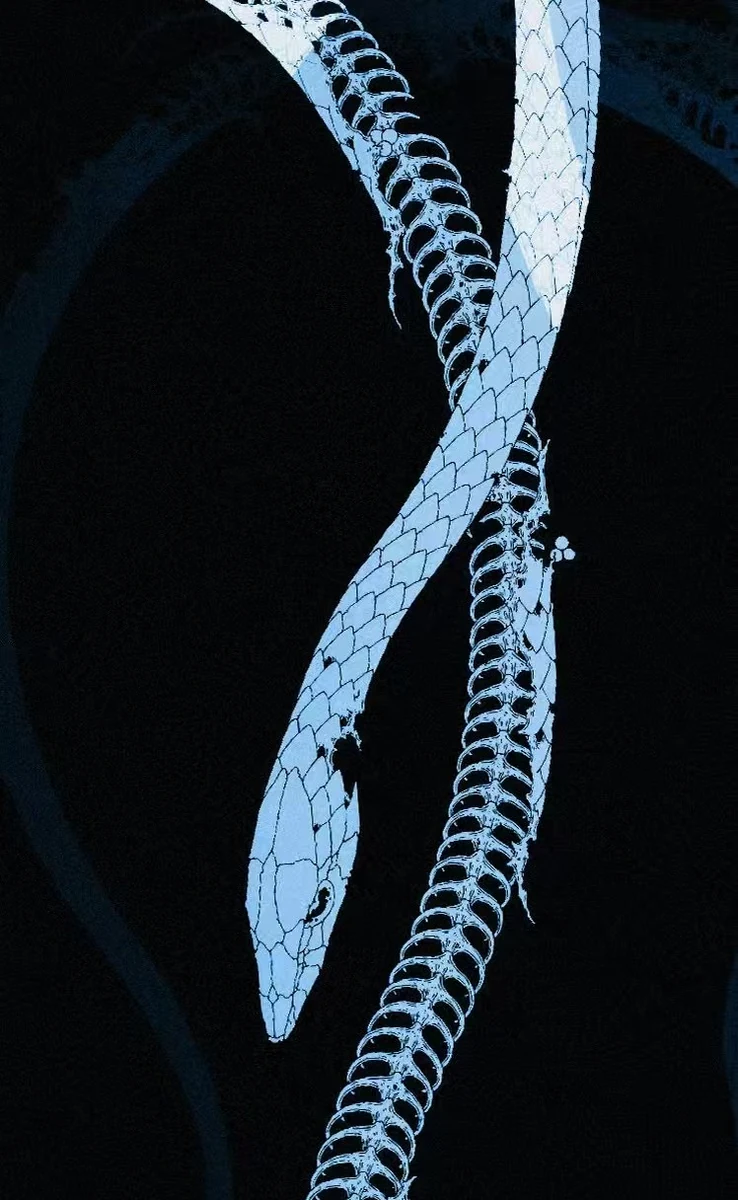
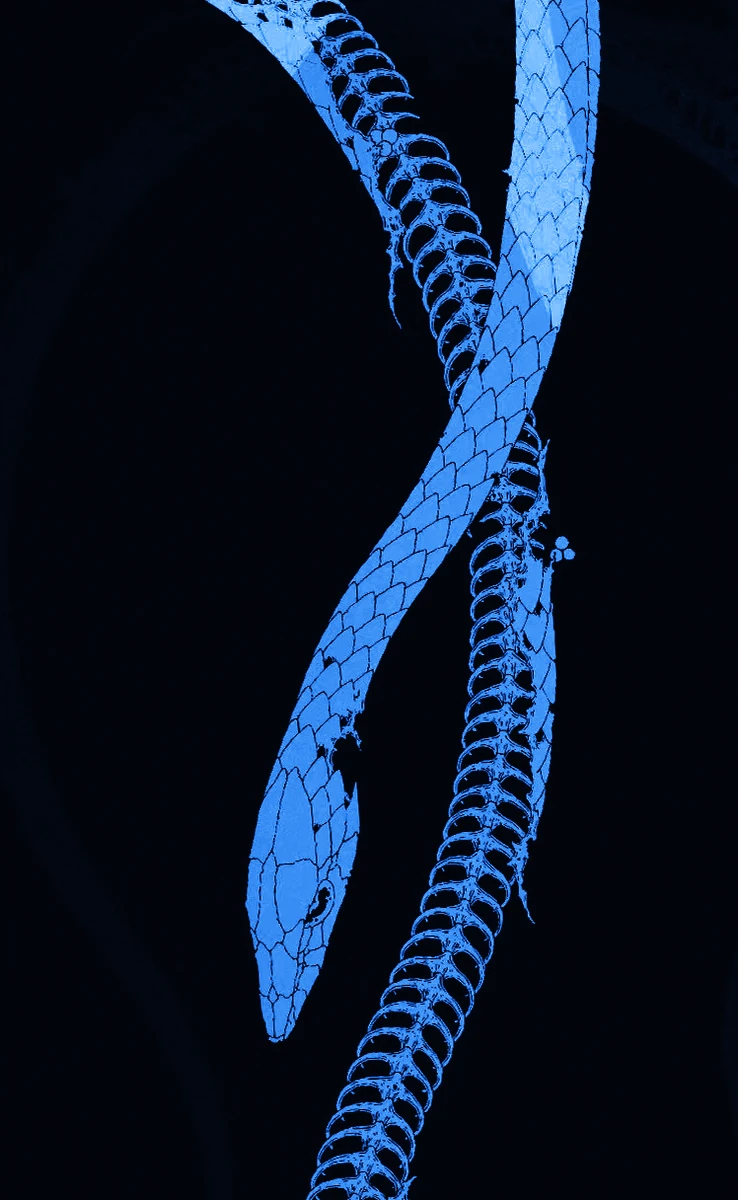
feat: 电光蓝黑配色 + 图片双色调 + 卡片内屏幕混合插图（参考 coco-xulian）

Changed region(s): [[0.2805, 0.0, 0.9038, 1.0], [0.9038, 0.0617, 1.0, 0.1542]]

diff --git a/index.html b/index.html
@@ -17,13 +17,13 @@
 <link href="https://fonts.googleapis.com/css2?family=Cinzel:wght@400;500;600&family=Cormorant+Garamond:ital,wght@0,400;0,500;1,400;1,500&family=Noto+Serif+SC:wght@200;300;400;500;600&display=swap" rel="stylesheet">
 <style>
 :root{
-  --bg:#05080d;
+  --bg:#03060c;
   --ink:#e9f1fa;
-  --ink2:#c3d5e8;
-  --muted:#8ba1b9;
-  --ice:#a9cbea;
-  --line:rgba(190,216,240,.17);
-  --line-soft:rgba(190,216,240,.09);
+  --ink2:#aecbe8;
+  --muted:#6e8aa8;
+  --ice:#2e8bff;
+  --line:rgba(58,146,255,.24);
+  --line-soft:rgba(58,146,255,.12);
   --display:'Cinzel',serif;
   --serif:'Cormorant Garamond',serif;
   --cn:'Noto Serif SC','Songti SC','STSong','SimSun',serif;
@@ -40,11 +40,11 @@ body{
 a{color:inherit;text-decoration:none}
 
 /* ================= 背景图层 ================= */
-.bgstack{position:fixed;inset:0;z-index:0;overflow:hidden;background:#04070b}
+.bgstack{position:fixed;inset:0;z-index:0;overflow:hidden;background:#02040a}
 .bg{
   position:absolute;inset:-4%;background-size:cover;background-position:center 42%;
   opacity:0;transition:opacity 1.3s ease;
-  filter:brightness(.60) saturate(.80) contrast(1.06);
+  filter:brightness(.46) saturate(1.15) contrast(1.08);
   transform:translate3d(calc(var(--mx,0)*6px),calc(var(--my,0)*6px),0) scale(1.05);
   will-change:opacity,transform;
 }
@@ -54,10 +54,10 @@ a{color:inherit;text-decoration:none}
 .veil{
   position:fixed;inset:0;z-index:1;pointer-events:none;
   background:
-    linear-gradient(90deg,rgba(5,8,13,.94) 0%,rgba(5,8,13,.86) 34%,rgba(5,8,13,.42) 62%,rgba(5,8,13,.60) 100%),
-    radial-gradient(120% 90% at 8% 12%,rgba(64,116,170,.20),transparent 58%),
-    radial-gradient(110% 80% at 92% 100%,rgba(10,26,44,.75),transparent 62%),
-    linear-gradient(180deg,rgba(4,6,10,.72) 0%,transparent 28%,transparent 66%,rgba(4,6,10,.88) 100%);
+    linear-gradient(90deg,rgba(3,5,11,.95) 0%,rgba(3,5,11,.88) 34%,rgba(3,5,11,.46) 62%,rgba(3,5,11,.64) 100%),
+    radial-gradient(120% 90% at 8% 12%,rgba(46,139,255,.16),transparent 58%),
+    radial-gradient(110% 80% at 92% 100%,rgba(3,9,22,.80),transparent 62%),
+    linear-gradient(180deg,rgba(2,4,9,.75) 0%,transparent 28%,transparent 66%,rgba(2,4,9,.90) 100%);
 }
 .grain{
   position:fixed;inset:0;z-index:2;pointer-events:none;opacity:.055;mix-blend-mode:overlay;
@@ -66,8 +66,8 @@ a{color:inherit;text-decoration:none}
 #dust{position:fixed;inset:0;z-index:2;pointer-events:none;opacity:.55}
 
 /* ================= 外框 ================= */
-.frame{position:fixed;inset:16px;z-index:8;pointer-events:none;border:1px solid rgba(190,216,240,.34)}
-.frame::after{content:'';position:absolute;inset:5px;border:1px solid rgba(190,216,240,.11)}
+.frame{position:fixed;inset:16px;z-index:8;pointer-events:none;border:1px solid rgba(58,146,255,.34)}
+.frame::after{content:'';position:absolute;inset:5px;border:1px solid rgba(58,146,255,.11)}
 
 /* ================= 布局 ================= */
 .app{position:relative;z-index:4;display:grid;grid-template-columns:minmax(340px,37%) 1fr;min-height:100vh}
@@ -91,21 +91,21 @@ a{color:inherit;text-decoration:none}
   position:relative;width:clamp(236px,36vh,372px);height:clamp(236px,36vh,372px);
   border-radius:50%;cursor:grab;touch-action:none;user-select:none;-webkit-user-select:none;
   background:radial-gradient(circle at 50% 40%,rgba(23,38,56,.62) 0%,rgba(5,9,14,.86) 68%);
-  box-shadow:0 0 0 1px rgba(190,216,240,.16),0 30px 70px rgba(0,0,0,.7),
+  box-shadow:0 0 0 1px rgba(58,146,255,.16),0 30px 70px rgba(0,0,0,.7),
              inset 0 0 44px rgba(0,0,0,.7),0 0 90px rgba(74,128,186,.12);
 }
 .clock:active{cursor:grabbing}
 .clock::before{
   content:'';position:absolute;inset:-11px;border-radius:50%;pointer-events:none;opacity:.55;
-  background:conic-gradient(from 200deg,rgba(190,216,240,.5),rgba(190,216,240,.03),rgba(190,216,240,.36),
-    rgba(190,216,240,.02),rgba(190,216,240,.44),rgba(190,216,240,.03),rgba(190,216,240,.34),rgba(190,216,240,.5));
+  background:conic-gradient(from 200deg,rgba(58,146,255,.5),rgba(58,146,255,.03),rgba(58,146,255,.36),
+    rgba(58,146,255,.02),rgba(58,146,255,.44),rgba(58,146,255,.03),rgba(58,146,255,.34),rgba(58,146,255,.5));
   mask:radial-gradient(circle,transparent 96.5%,#000 97%);
   -webkit-mask:radial-gradient(circle,transparent 96.5%,#000 97%);
 }
 .clock svg{position:relative;display:block;width:100%;height:100%;color:var(--ink);overflow:visible}
 .ring{fill:none;stroke:rgba(233,241,250,.55);stroke-width:1}
 .ring2{fill:none;stroke:rgba(233,241,250,.22);stroke-width:.7}
-.ring3{fill:none;stroke:rgba(169,203,234,.16);stroke-width:.7;stroke-dasharray:1.4 5;
+.ring3{fill:none;stroke:rgba(46,139,255,.16);stroke-width:.7;stroke-dasharray:1.4 5;
   transform-box:view-box;transform-origin:50% 50%;animation:spin 120s linear infinite}
 @keyframes spin{to{transform:rotate(360deg)}}
 .tk{stroke:rgba(233,241,250,.34);stroke-width:.7}
@@ -124,7 +124,7 @@ a{color:inherit;text-decoration:none}
 .dm{fill:var(--ice);opacity:.55}
 #hand{stroke:url(#handGrad);stroke-width:1.8;stroke-linecap:round;transition:none}
 .ctr{fill:var(--ice)}
-.ctr2{fill:none;stroke:rgba(169,203,234,.5);stroke-width:.8}
+.ctr2{fill:none;stroke:rgba(46,139,255,.5);stroke-width:.8}
 .ptr{fill:var(--ice);opacity:.9}
 
 .readout{text-align:center;margin-top:clamp(16px,2.6vh,26px)}
@@ -150,25 +150,46 @@ a{color:inherit;text-decoration:none}
 .panel.on{display:block}
 .card{position:relative;
   padding:clamp(30px,3.6vw,46px) clamp(22px,3.2vw,42px);
-  border:1px solid rgba(190,216,240,.20);
+  border:1px solid rgba(58,146,255,.20);
   background:linear-gradient(158deg,rgba(11,20,30,.74),rgba(4,8,13,.52) 62%,rgba(6,12,19,.62));
   backdrop-filter:blur(15px) saturate(1.12);
   -webkit-backdrop-filter:blur(15px) saturate(1.12);
   box-shadow:0 34px 90px rgba(0,0,0,.62),inset 0 1px 0 rgba(214,234,252,.07)}
-.card::before{content:'';position:absolute;inset:7px;border:1px solid rgba(190,216,240,.075);pointer-events:none}
+.card::before{content:'';position:absolute;inset:7px;border:1px solid rgba(58,146,255,.075);pointer-events:none}
 .card::after{content:attr(data-rn);position:absolute;right:16px;bottom:2px;z-index:0;
   font-family:var(--display);font-size:124px;line-height:.9;letter-spacing:.02em;
-  color:rgba(190,216,240,.065);pointer-events:none;user-select:none;
+  color:rgba(58,146,255,.065);pointer-events:none;user-select:none;
   text-shadow:0 0 40px rgba(120,175,225,.10)}
 .panel.on .card{animation:cardIn .9s var(--ease) both}
 @keyframes cardIn{from{opacity:0;transform:translateY(22px);filter:blur(7px)}to{opacity:1;transform:none;filter:blur(0)}}
 .card>*{position:relative;z-index:1;animation:riseIn .95s var(--ease) both;animation-delay:calc(.06s + var(--d,0)*1ms)}
+
+/* ===== 卡片内插图：屏幕混合，图片黑底自然融进暗卡片 ===== */
+.card{overflow:hidden}
+.card>.art{position:absolute;z-index:0;animation:none;pointer-events:none;
+  mix-blend-mode:screen;background-repeat:no-repeat;
+  -webkit-mask-image:radial-gradient(128% 128% at 62% 48%,#000 44%,transparent 86%);
+  mask-image:radial-gradient(128% 128% at 62% 48%,#000 44%,transparent 86%);
+  filter:saturate(1.2) brightness(1.06)}
+.art.r{right:-12%;top:50%;transform:translateY(-50%);width:50%;height:106%;
+  background-size:contain;background-position:right center;opacity:.52}
+.art.b{left:-6%;right:-6%;bottom:-15%;height:58%;
+  background-size:contain;background-position:center bottom;opacity:.46}
+.art.faint{opacity:.3}
+
+/* 窄屏：插图挪到右下、压暗，保证正文可读 */
+@media (max-width:900px){
+  .art.r{right:-18%;top:auto;bottom:-10%;transform:none;width:74%;height:58%;
+    opacity:.24;background-position:right bottom}
+  .art.b{opacity:.24;height:44%}
+  .art.faint{opacity:.2}
+}
 @keyframes riseIn{from{opacity:0;transform:translateY(16px)}to{opacity:1;transform:none}}
 
 .eyebrow{display:flex;align-items:center;gap:13px;font-family:var(--display);
   font-size:11px;letter-spacing:.34em;color:var(--ice);text-transform:uppercase}
 .eyebrow .gnum{display:inline-grid;place-items:center;width:27px;height:27px;flex:none;
-  border:1px solid rgba(169,203,234,.55);font-size:12px;letter-spacing:0;color:#dfeeff}
+  border:1px solid rgba(46,139,255,.55);font-size:12px;letter-spacing:0;color:#dfeeff}
 .eyebrow::after{content:'';flex:1;height:1px;background:linear-gradient(90deg,var(--line),transparent)}
 
 h2{font-family:var(--cn);font-weight:300;font-size:clamp(30px,4.1vw,52px);line-height:1.5;
@@ -176,8 +197,9 @@ h2{font-family:var(--cn);font-weight:300;font-size:clamp(30px,4.1vw,52px);line-h
   text-shadow:0 2px 34px rgba(2,5,9,.92),0 0 3px rgba(2,5,9,.55)}
 h2 em{font-style:normal;position:relative;color:#fff}
 h2 em::after{content:'';position:absolute;left:0;right:0;bottom:.06em;height:1px;
-  background:linear-gradient(90deg,var(--ice),rgba(169,203,234,.15))}
-.hero{font-size:clamp(26px,3.5vw,44px);line-height:1.85;letter-spacing:.04em}
+  background:linear-gradient(90deg,var(--ice),rgba(46,139,255,.15))}
+.hero{font-size:clamp(26px,3.5vw,44px);line-height:1.85;letter-spacing:.04em;
+  text-shadow:0 2px 22px rgba(2,4,9,.9),0 0 46px rgba(2,4,9,.6)}
 .hero .line{display:block;overflow:hidden}
 .hero .line i{display:block;font-style:normal;transform:translateY(115%);
   animation:lineUp 1.1s var(--ease) forwards}
@@ -211,9 +233,9 @@ h2 em::after{content:'';position:absolute;left:0;right:0;bottom:.06em;height:1px
 .srow .sh .e{font-family:var(--display);font-size:9.5px;letter-spacing:.3em;color:var(--muted)}
 .chips{display:flex;flex-wrap:wrap;gap:9px;margin-top:14px}
 .chip{font-size:13px;letter-spacing:.2em;padding:7px 15px;color:#dcebf9;
-  border:1px solid rgba(169,203,234,.28);background:rgba(20,38,58,.35);
+  border:1px solid rgba(46,139,255,.28);background:rgba(20,38,58,.35);
   backdrop-filter:blur(3px);transition:.45s var(--ease)}
-.chip:hover{background:rgba(169,203,234,.16);border-color:rgba(190,216,240,.6);color:#fff}
+.chip:hover{background:rgba(46,139,255,.16);border-color:rgba(58,146,255,.6);color:#fff}
 
 /* 禁忌 */
 .notice{margin-top:clamp(22px,3.4vh,36px);padding:22px 24px;border:1px solid var(--line);
@@ -247,8 +269,8 @@ h2 em::after{content:'';position:absolute;left:0;right:0;bottom:.06em;height:1px
 /* 文档链接 */
 .doc-link{display:inline-flex;align-items:center;gap:8px;margin-top:clamp(20px,3vh,30px);
   font-family:var(--display);font-size:11px;letter-spacing:.24em;padding:11px 20px;
-  border:1px solid rgba(190,216,240,.42);color:#eaf4ff;transition:.45s var(--ease)}
-.doc-link:hover{background:rgba(190,216,240,.92);color:#05080d;border-color:transparent}
+  border:1px solid rgba(58,146,255,.42);color:#eaf4ff;transition:.45s var(--ease)}
+.doc-link:hover{background:rgba(58,146,255,.92);color:#05080d;border-color:transparent}
 .doc-link .ar{font-size:12px;letter-spacing:0}
 
 /* 她的字 · 文档簇 */
@@ -257,16 +279,16 @@ h2 em::after{content:'';position:absolute;left:0;right:0;bottom:.06em;height:1px
 .writings .wt{font-family:var(--display);font-size:9.5px;letter-spacing:.3em;
   color:var(--muted);margin-bottom:13px}
 .wlink{display:flex;align-items:center;gap:14px;padding:12px 15px;margin-bottom:9px;
-  border:1px solid rgba(190,216,240,.20);text-decoration:none;
+  border:1px solid rgba(58,146,255,.20);text-decoration:none;
   background:linear-gradient(120deg,rgba(11,20,30,.5),rgba(6,11,17,.28));
   color:#e7f1fb;transition:.45s var(--ease)}
 .wlink:last-child{margin-bottom:0}
-.wlink:hover{border-color:rgba(190,216,240,.6);
+.wlink:hover{border-color:rgba(58,146,255,.6);
   background:linear-gradient(120deg,rgba(20,36,52,.72),rgba(10,18,28,.5));transform:translateX(4px)}
 .wlink .wk{font-family:var(--display);font-size:10px;letter-spacing:.22em;
   color:#bcd8f2;min-width:40px;opacity:.85}
 .wlink .wt2{flex:1;font-size:13.5px;letter-spacing:.1em;color:#eef6ff;font-weight:300}
-.wlink .ar{font-size:13px;color:rgba(190,216,240,.55);transition:.45s var(--ease)}
+.wlink .ar{font-size:13px;color:rgba(58,146,255,.55);transition:.45s var(--ease)}
 .wlink:hover .ar{color:#fff;transform:translate(2px,-2px)}
 
 /* 矮屏（如 720p 笔记本）：压缩幸识页，避免卡片超出视口被裁切 */
@@ -280,14 +302,14 @@ h2 em::after{content:'';position:absolute;left:0;right:0;bottom:.06em;height:1px
 
 /* 图版编号 */
 .plate{position:fixed;left:34px;bottom:32px;z-index:7;font-family:var(--display);font-size:9px;
-  letter-spacing:.3em;color:rgba(190,216,240,.42);text-transform:uppercase;pointer-events:none}
+  letter-spacing:.3em;color:rgba(58,146,255,.42);text-transform:uppercase;pointer-events:none}
 .plate b{color:rgba(200,226,250,.72);font-weight:500}
 
 /* 右侧索引 */
 .rail{position:fixed;right:30px;top:50%;transform:translateY(-50%);z-index:7;
   display:flex;flex-direction:column;gap:16px;align-items:flex-end}
 .rail button{display:flex;align-items:center;gap:9px;background:none;border:0;cursor:pointer;
-  font-family:var(--display);font-size:9.5px;letter-spacing:.18em;color:rgba(190,216,240,.34);
+  font-family:var(--display);font-size:9.5px;letter-spacing:.18em;color:rgba(58,146,255,.34);
   transition:.4s var(--ease);padding:2px 0;text-shadow:0 1px 10px rgba(0,0,0,.95)}
 .rail button .ln{display:block;width:14px;height:1px;background:currentColor;transition:.4s}
 .rail button:hover{color:#dbeaf9}
@@ -296,7 +318,7 @@ h2 em::after{content:'';position:absolute;left:0;right:0;bottom:.06em;height:1px
 
 /* 页脚 */
 .foot{position:fixed;right:clamp(28px,7vw,110px);bottom:30px;z-index:7;text-align:right;
-  pointer-events:none;font-size:10.5px;letter-spacing:.22em;color:rgba(190,216,240,.4)}
+  pointer-events:none;font-size:10.5px;letter-spacing:.22em;color:rgba(58,146,255,.4)}
 .foot b{color:rgba(226,240,253,.7);font-weight:400}
 
 /* 手机端页脚（常规位置） */
@@ -325,7 +347,7 @@ h2 em::after{content:'';position:absolute;left:0;right:0;bottom:.06em;height:1px
   .foot,.plate{display:none}
   .m-foot{display:block;margin-top:48px;padding-top:18px;border-top:1px solid var(--line-soft);
     text-align:center;font-family:var(--display);font-size:9px;letter-spacing:.28em;
-    color:rgba(190,216,240,.4);line-height:2.6}
+    color:rgba(58,146,255,.4);line-height:2.6}
   .m-foot b{color:rgba(226,240,253,.7);font-weight:400;letter-spacing:.18em}
   .frame{inset:9px}
 }
@@ -406,6 +428,7 @@ h2 em::after{content:'';position:absolute;left:0;right:0;bottom:.06em;height:1px
       <!-- XII 入口 -->
       <section class="panel on" data-i="0">
         <div class="card" data-rn="XII">
+          <div class="art r" style="background-image:url(assets/p3.webp)" aria-hidden="true"></div>
           <div class="eyebrow" style="--d:0"><span class="gnum">Ω</span>入口 · GATE</div>
           <h2 class="hero">
             <span class="line"><i>能轻易失去的东西</i></span>
@@ -437,6 +460,7 @@ h2 em::after{content:'';position:absolute;left:0;right:0;bottom:.06em;height:1px
       <!-- IV 请了解我 -->
       <section class="panel" data-i="2">
         <div class="card" data-rn="IV">
+          <div class="art b" style="background-image:url(assets/p1.webp)" aria-hidden="true"></div>
           <div class="eyebrow" style="--d:0"><span class="gnum">Β</span>请了解我 · NEXT</div>
           <h2 style="--d:80"><em>三恋</em>选手</h2>
           <p class="lead" style="--d:140">三种恋法，各自有各自的温度。想要哪一种，提前说。</p>
@@ -475,6 +499,7 @@ h2 em::after{content:'';position:absolute;left:0;right:0;bottom:.06em;height:1px
       <!-- VIII 幸识 -->
       <section class="panel" data-i="4">
         <div class="card" data-rn="VIII">
+          <div class="art r faint" style="background-image:url(assets/p6.webp)" aria-hidden="true"></div>
           <div class="eyebrow" style="--d:0"><span class="gnum">Δ</span>幸识 · MEET</div>
           <div class="meet"><span>幸</span><span>识</span></div>
           <p class="poem" style="--d:400">世界很大，频率对得上的人不多。<br>你刚好转到这里，<b>就算是认识了</b>。</p>
@@ -497,6 +522,7 @@ h2 em::after{content:'';position:absolute;left:0;right:0;bottom:.06em;height:1px
       <!-- X 请靠近我 -->
       <section class="panel" data-i="5">
         <div class="card" data-rn="X">
+          <div class="art r" style="background-image:url(assets/p4.webp)" aria-hidden="true"></div>
           <div class="eyebrow" style="--d:0"><span class="gnum">Ε</span>请靠近我 · FINALLY</div>
           <h2 style="--d:80">请 <em>靠近</em> 我</h2>
           <div class="path">
